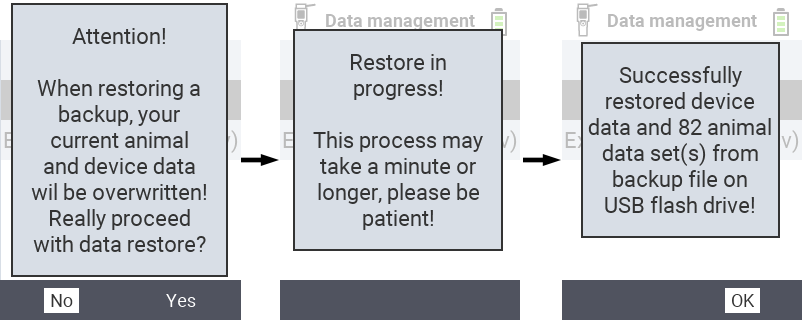
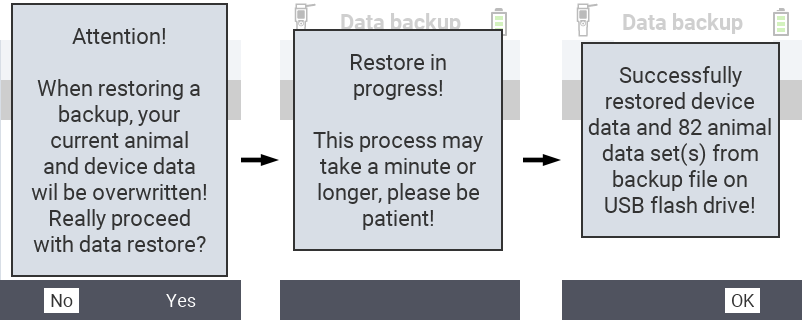
Backup and restore: reflect new menu structure (EN)

diff --git a/content/en/docs/backup/restore.md b/content/en/docs/backup/restore.md
@@ -20,16 +20,16 @@ Inside the directory `backup` of your USB flash drive, you may find several back
 
 1. Open the menu item &nbsp;<img src="/icons/device.svg" width="23" align="bottom" alt="Device" /> `Device` in the main screen of the VitalControl device to which you want to restore the data.
 
-2. Invoke the submenu `Data management`, select the menu item `Restore backup` and confirm with `OK`. You are now asked to insert an USB flash drive:
+2. Invoke the submenu `Data management` and select the submenu item `Data backup` afterwards. Now select the menu item `Restore backup` and confirm with `OK`. You are now asked to insert an USB flash drive:
 
-   ![VitalControl: menu path data restore](../images/restore.png "Restoring a backup file")
+   ![VitalControl: menu path data restore](../images/restore.png "Restoring from backup file")
 
 3. Insert the USB flash drive (C plug) into the connector at the bottom of the device.
 
    ![VitalControl: insert USB flash drive](/images/firmware/update/plug-in-dual-usb-stick.svg "Plug in USB flash drive")
 
-4. Once the device detected insertion of the USB stick, a confirmation window appears. Acknowledge this popup with 'Yes' to start the data restore. Decompressing and restoring the backup may take a minute or longer. When the data restore is complete, a success message is displayed:
+4. Once the device detected insertion of the USB stick, a confirmation window appears. Acknowledge this popup with `Yes` to start the data restore. Decompressing and restoring the backup may take a minute or longer. When the data restore is complete, a success message is displayed:
 
-   ![VitalControl: success message data restore](../images/restore-done.png "success message data restore")
+   ![VitalControl: success message data restore](../images/restore-done.png "Success message data restore")
 
 5. Backup data were successfully restored to VitalControl device.

diff --git a/content/en/docs/lists/freshcows.md b/content/en/docs/lists/freshcows.md
@@ -17,7 +17,7 @@ translationKey: lists/fresh-cows
 When managing fresh cows, checking the animals daily for several days after birth is considered a best practices routine. The fresh cows list supports facilitates ths fresh cow control, especially in terms of temperature recording. For each animal, a column chart over all days of the control period is shown, each day of the control period is represented by a vertical bar. Depending on the colour of the bar (green, yellow or red), you can see whether a normal, elevated or critically elevated temperature was measured on that day for the respective animal.
 {{% /alert %}}
 
-Cows are put on the fresh cows list immediately after their calving has been registered. They remain on that list for a certain period of time, the length of this period (in days) can be adjusted in the [settings](../../settings/data-acquisition/#control-period-fresh-cows).
+Cows are put on the fresh cows list immediately after their calving has been registered. They remain on that list for a certain period of time, the length of this period (in days) can be adjusted in the [settings](../../settings/data-acquisition/#control-period-of-fresh-cows).
  The following actions are available for this list:
 
 - [Full action menu](../alarm/#full-action-menu)

diff --git a/content/en/docs/backup/backup.md b/content/en/docs/backup/backup.md
@@ -14,7 +14,7 @@ tags: [backup file, USB flash drive]
 
 1. Open the menu item &nbsp;<img src="/icons/device.svg" width="23" align="bottom" alt="Device" /> `Device` in the main screen of your VitalControl device.
 
-2. Invoke the submenu `Data management`, select the menu item `Create backup` and confirm with `OK`. You are now asked to insert an USB flash drive:
+2. Invoke the submenu `Data management` and select the submenu item `Data backup` afterwards. Now select the menu item `Create backup` and confirm with `OK`. You are now asked to insert an USB flash drive:
 
    ![VitalControl: menu path data backup](../images/backup.png "Invoke data backup")
 
@@ -30,7 +30,7 @@ tags: [backup file, USB flash drive]
 
    ![USB flash drive with backup file VitalControl](../images/backup-file.png "USB flash drive with backup file")
 
-   {{% alert title="Hinweis" %}}
+   {{% alert title="Hint" %}}
   If a file `backup.vcu` already exists in the `backup` directory of your USB flash drive, this file will be renamed. The new name of the file is composed of the leading string `backup` and the date and time when the backup file was created (e.g. `backup_2023-07-17_12-50-37.vcb`). The newly written backup file is always named `backup.vcu`.
     {{% /alert %}}
 

diff --git a/content/de/docs/einstellungen/collection-of-animal-data.md b/content/de/docs/einstellungen/collection-of-animal-data.md
@@ -175,4 +175,5 @@ Um die Länge der Kontrollperiode für die Frischmelker auf ihrem Gerät festzul
     ![VitalControl: Menüfolge Einstellung Kontrolle Frischmelker](../bilder/kontrollefrischmelker.png "Kontrollperiode Frischmelker einstellen")
 
 <br>
+
 Speichern Sie die Einstellungen und gelangen Sie mittels der `F1` Taste &nbsp;<img src="/icons/footer/save_exit.svg" width="65" align="bottom" alt="Speichern und Zurück" /> zurück in das Obermenü <img src="/icons/gear.svg" width="25" align="bottom" alt="Einstellungen" /> `Einstellungen`.

diff --git a/content/en/docs/settings/collection-of-animal-data.md b/content/en/docs/settings/collection-of-animal-data.md
@@ -175,4 +175,5 @@ To set the length of the Control period for your fresh cows proceed as follows:
     ![VitalControl: menu settings control period fresh cows](../images/controlperiodfreshcows.png "Control period fresh cows")
 
 <br>
+
 Save the settings and return to the top menu <img src="/icons/gear.svg" width="25" align="bottom" alt="Settings" /> `Settings` by pressing the `F1` key &nbsp;<img src="/icons/footer/save_exit.svg" width="65" align="bottom" alt="Save and return" />&nbsp;.

diff --git a/content/en/docs/herd/_index.md b/content/en/docs/herd/_index.md
@@ -44,7 +44,7 @@ Within the Herd menu item, you can view your entire herd, search for individual 
 
     ![VitalControl: Menu Herd](images/animaldata.png "View animal data")
 
-{{% alert title = "Hinweis" %}}
+{{% alert title = "Hint" %}}
 By default, the animal data is displayed first. Only when you have the weight displayed, for example, do you have to set the display of the animal data again.
 {{% /alert %}}
 
